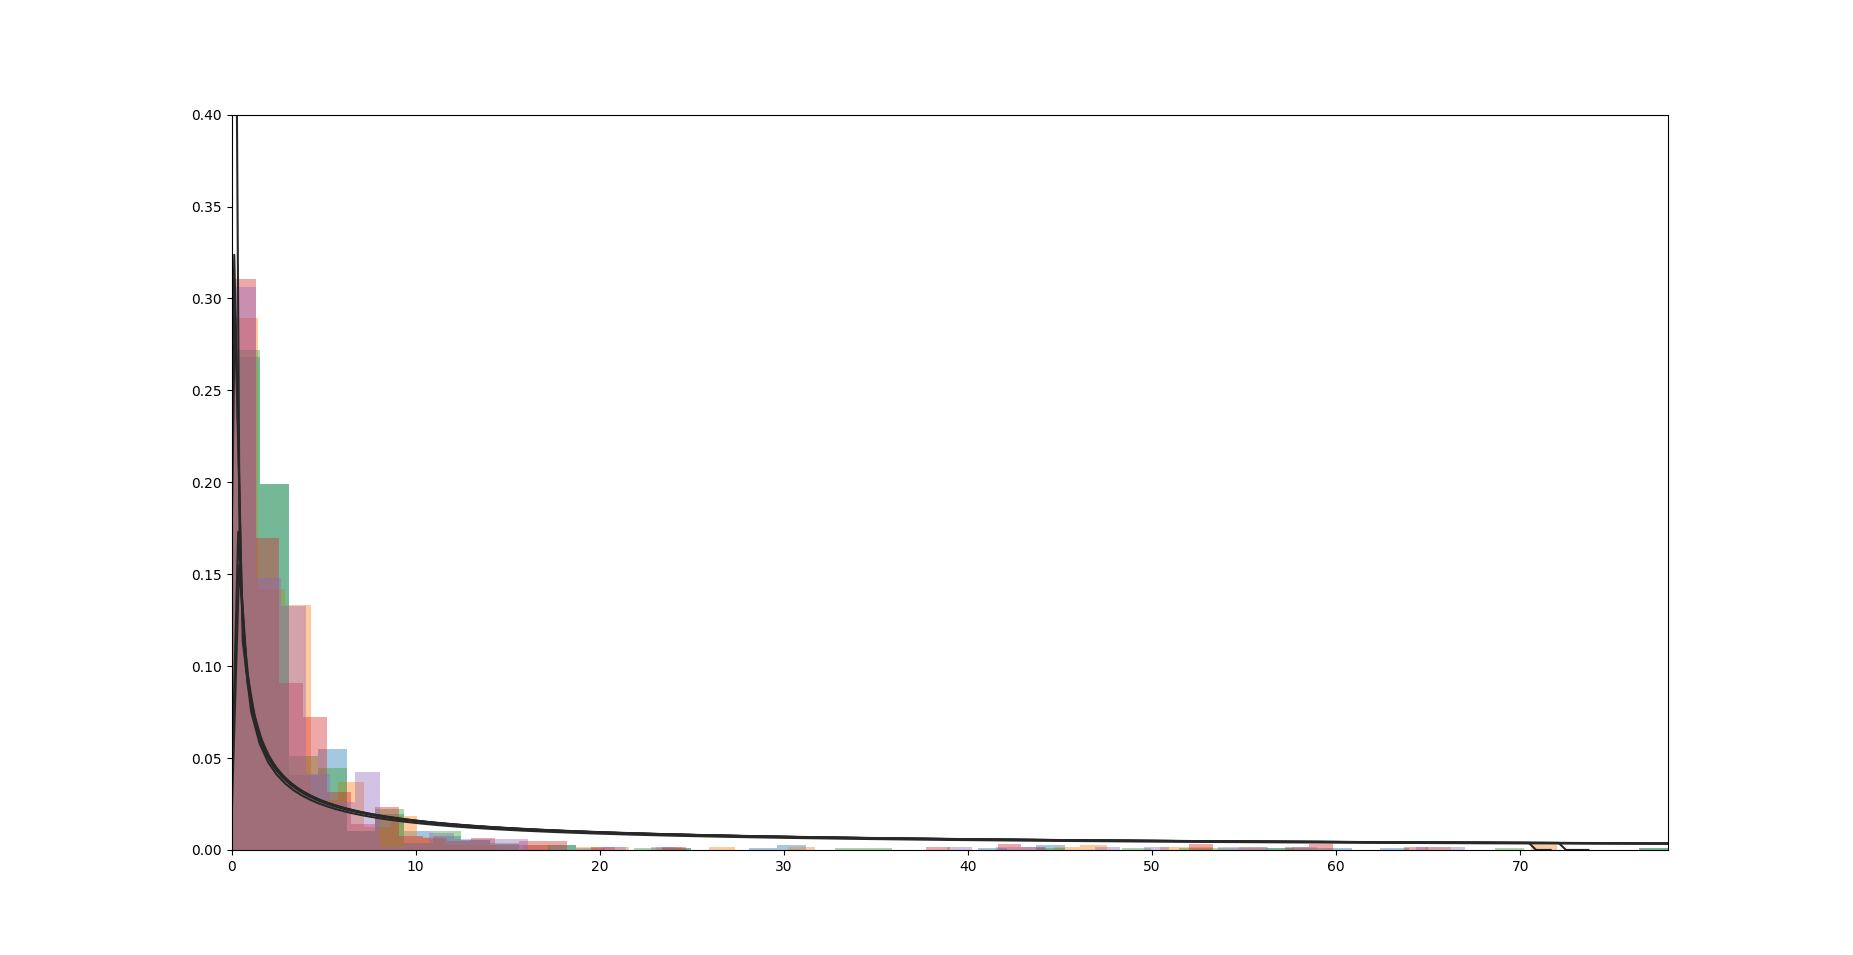
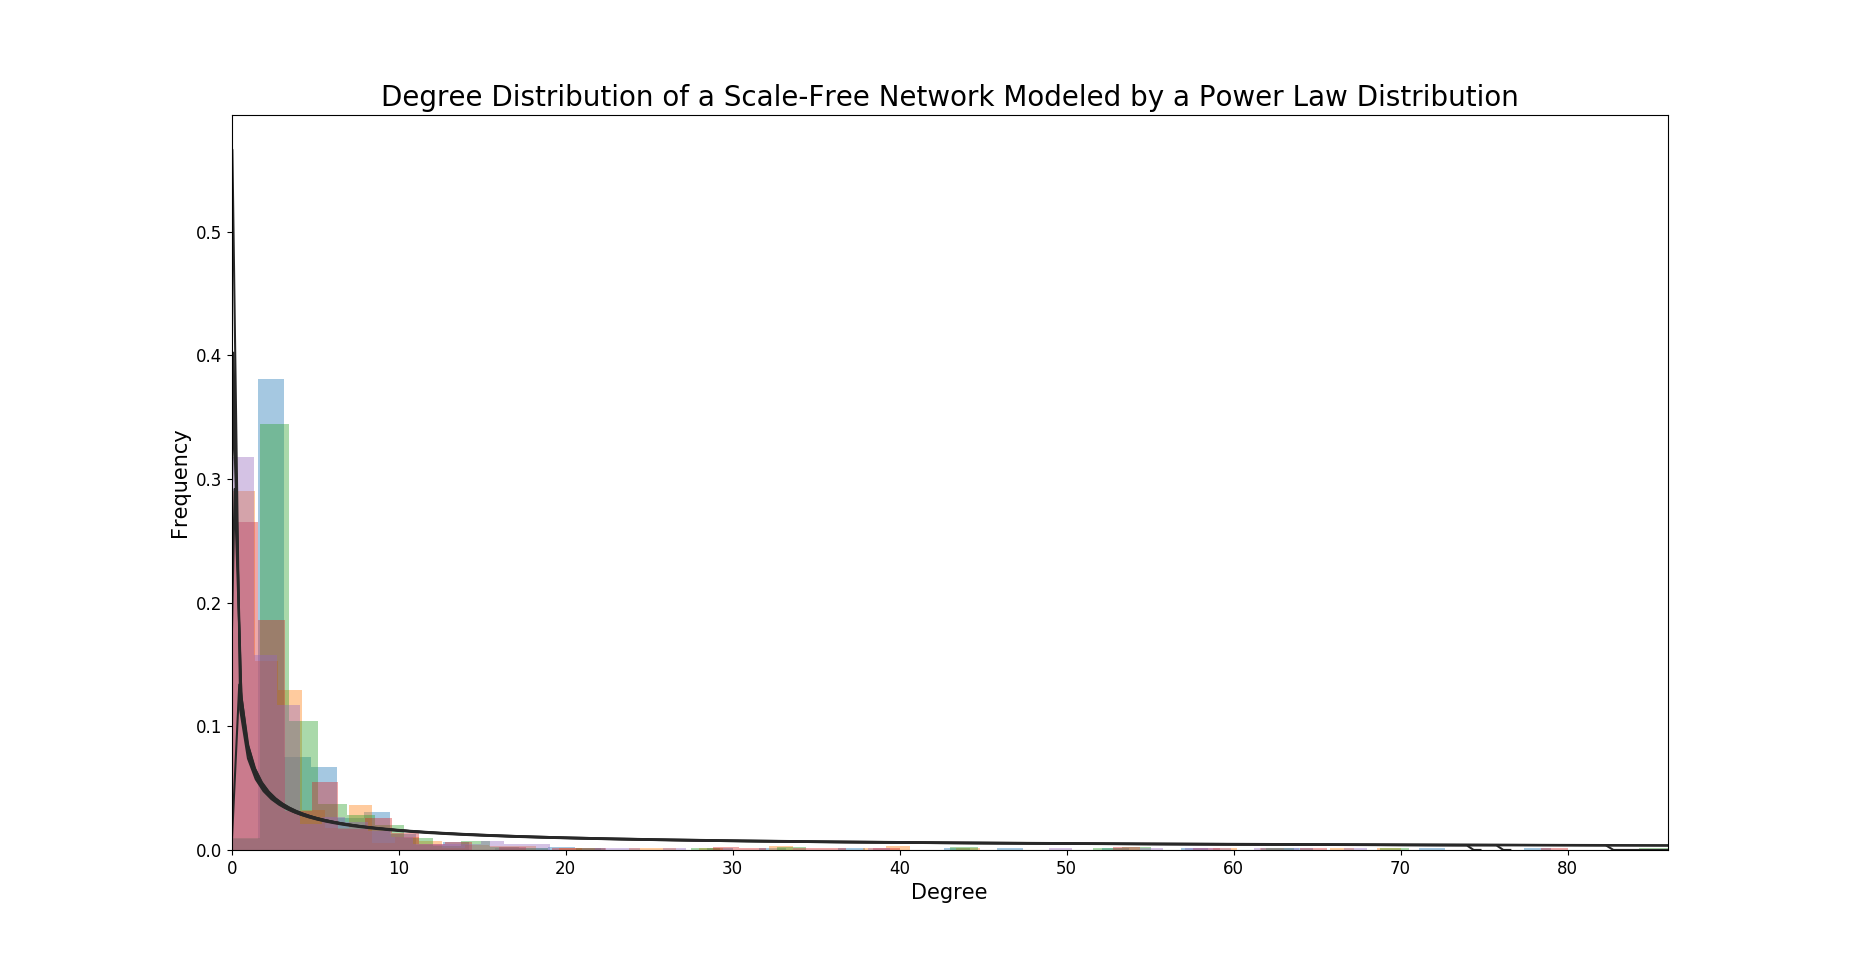
added random nw hist + updated sf nw hist

diff --git a/src/generateNetwork.py b/src/generateNetwork.py
@@ -8,6 +8,7 @@ import numpy as np
 import collections
 import seaborn as sns
 from scipy.stats import powerlaw
+from scipy.stats import poisson
 
 def main():
 
@@ -24,7 +25,7 @@ def main():
     #     # print("Average distance: " + str(averageDistance(randomNetwork)))
     #     randomNetworkHistData.append(degreeDistribution(randomNetwork))
     #
-    # overlayHistogram(randomNetworkHistData)
+    # overlayHistogram(randomNetworkHistData, type="random")
 
     scaleFreeNetworkHistData = []
 
@@ -36,7 +37,7 @@ def main():
         # print("Average distance: " + str(averageDistance(scaleFreeNetwork)))
         scaleFreeNetworkHistData.append(degreeDistribution(scaleFreeNetwork))
 
-    overlayHistogram(scaleFreeNetworkHistData)
+    overlayHistogram(scaleFreeNetworkHistData, type="scalefree")
 
 
     '''
@@ -67,29 +68,41 @@ def degreeDistribution(G):
     # for fixing the offset
     return a
 
-def overlayHistogram(data):
-    # bins = np.linspace(0, 15, 10)
-    #
-    # plt.hist(x, bins, alpha=0.5, label='x', stacked=True, histtype='barstacked')
-    # plt.hist(y, bins, alpha=0.5, label='y', stacked=True, histtype='barstacked')
-    # plt.legend(loc='upper right')
-    # plt.show()
-
+def overlayHistogram(data, type):
     fig, ax = plt.subplots()
 
     # print(data)
 
     xmax = np.amax(data)
     # ymax = np.argmax(np.bincount(data))
-    ymax = 0.4
     ax.set_xlim(left=0, right=xmax)
-    ax.set_ylim(top=ymax)
+    # ax.set_ylim(top=ymax)
+
+    axis_font = {'fontname':'Arial', 'size':'15'}
+    title_font = {'fontname': 'Arial', 'size':'20'}
+    ax.tick_params(labelsize=12)
 
 
-    for i in range(len(data)):
-        sns.distplot(data[i], fit=powerlaw, ax=ax, kde=False)
+    if (type == "random"):
+        for i in range(len(data)):
+            mlest = data[i].mean()
+            sns.distplot(data[i], ax=ax, kde=False)
+            plt.plot(data[i], poisson.pmf(data[i], mlest)*len(data[i]), 'ko', markersize=4)
 
-    plt.show()
+        ax.set_xlabel('Degree', **axis_font)
+        ax.set_ylabel('Frequency', **axis_font)
+        ax.set_title("Degree Distribution of a Random Network Modeled by a Poisson Distribution", **title_font)
+        plt.show()
+    else:
+        for i in range(len(data)):
+            sns.distplot(data[i], ax=ax, kde=False, fit=powerlaw)
+        ax.set_xlabel('Degree', **axis_font)
+        ax.set_ylabel('Frequency', **axis_font)
+        ax.set_title("Degree Distribution of a Scale-Free Network Modeled by a Power Law Distribution", **title_font)
+        plt.show()
+
+
+
 
 def makeRandomNetwork(nodes, edges):
 
